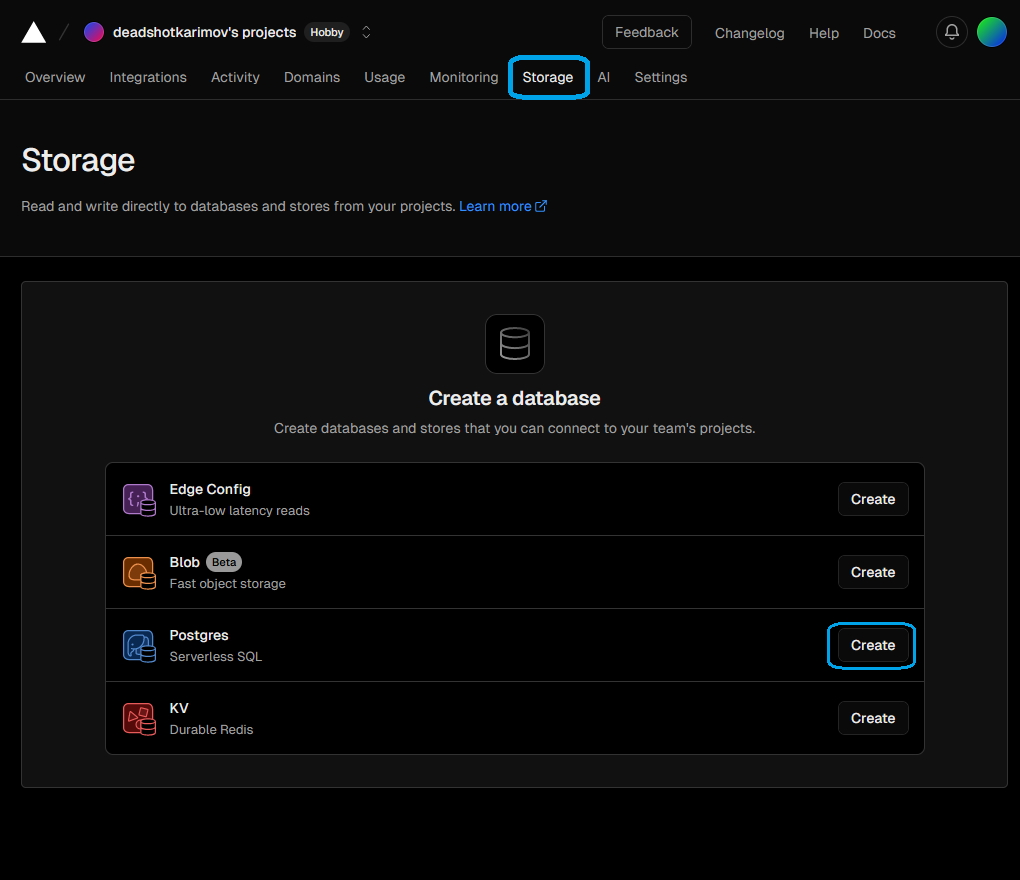
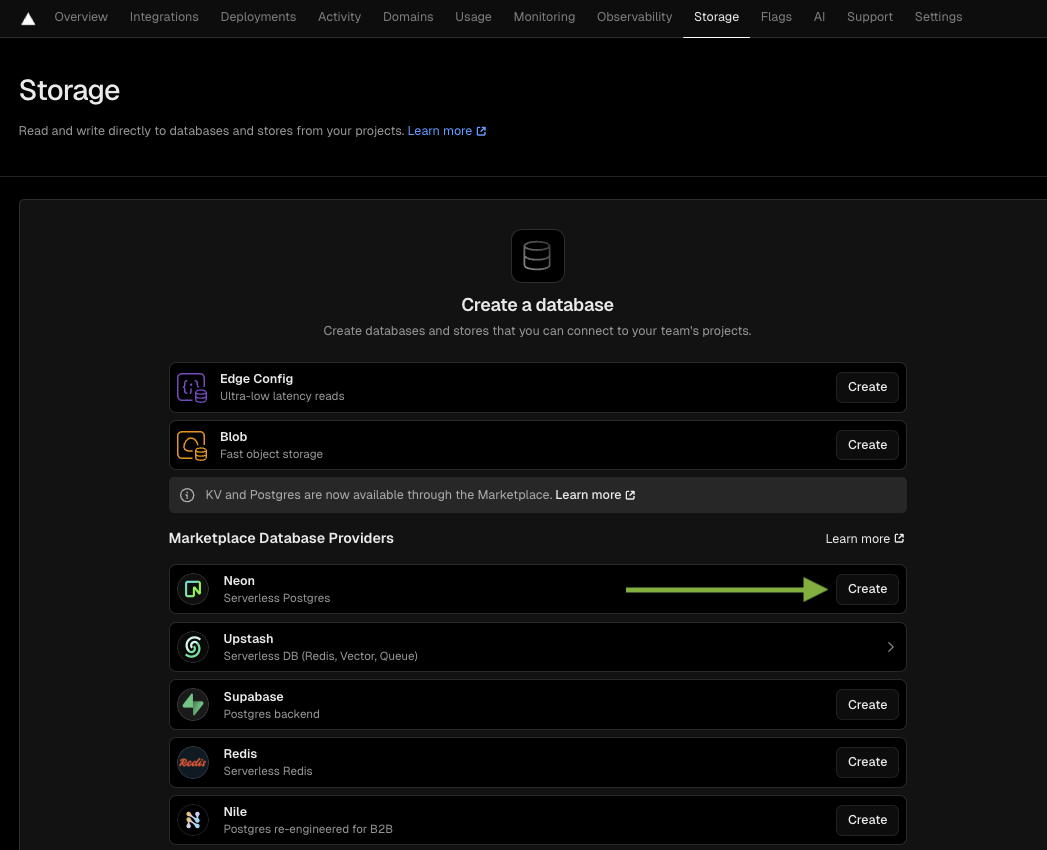
update deployment docs to reference neon postgres

diff --git a/apps/documentation/docs/fresco/deployment/cloud-pricing.en.md b/apps/documentation/docs/fresco/deployment/cloud-pricing.en.md
@@ -9,13 +9,20 @@ Deploying Fresco can be achieved entirely for free using the free tiers of each 
 
 ## Vercel
 
-- **Hobby Tier (Free)**: Vercel offers a hobby tier which provides sufficient features and database storage for small-scale deployments, up to 60 hours of compute time per month and 250 MB of storage.
+- **Hobby Tier (Free)**: Vercel offers a hobby tier which provides sufficient features for small-scale deployments, up to 60 hours of compute time per month.
 
 - **Upgrade Option**: If your project grows or you require additional features, you can upgrade to Vercel's Pro plan for $20/user/month.
 
 For more information on Vercel's pricing plans and features, you can visit their [pricing page.](https://vercel.com/pricing)
 
-For specific information on Vercel's Postgres Database Storage pricing, you can visit their [Vercel Postgres pricing page.](https://vercel.com/docs/storage/vercel-postgres/usage-and-pricing)
+## Neon
+
+- **Free Plan**: Neon offers a free plan which provides 0.5 GB storage and 190 compute hours, sufficient for small-scale projects.
+
+- **Upgrade Option**: If you require extra storage or compute hours, you can upgrade to Neon's Launch plan for #19/month.
+
+For more information on Neon's pricing plans and features, you can visit their [priving page.](https://neon.com/pricing)
+
 
 ## UploadThing
 
